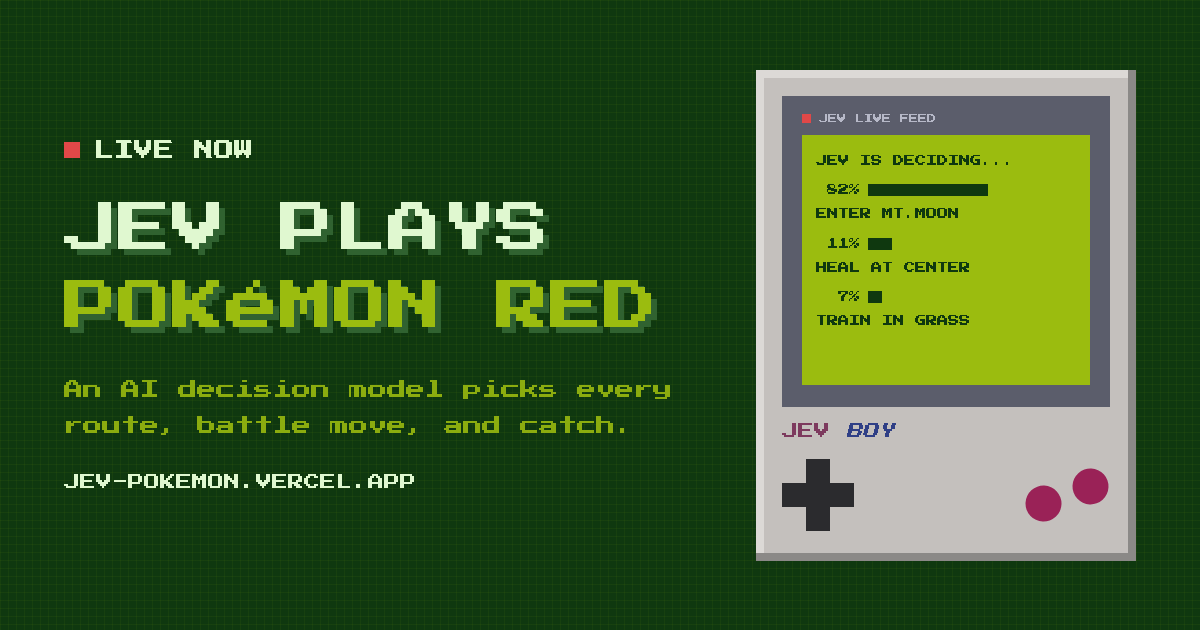
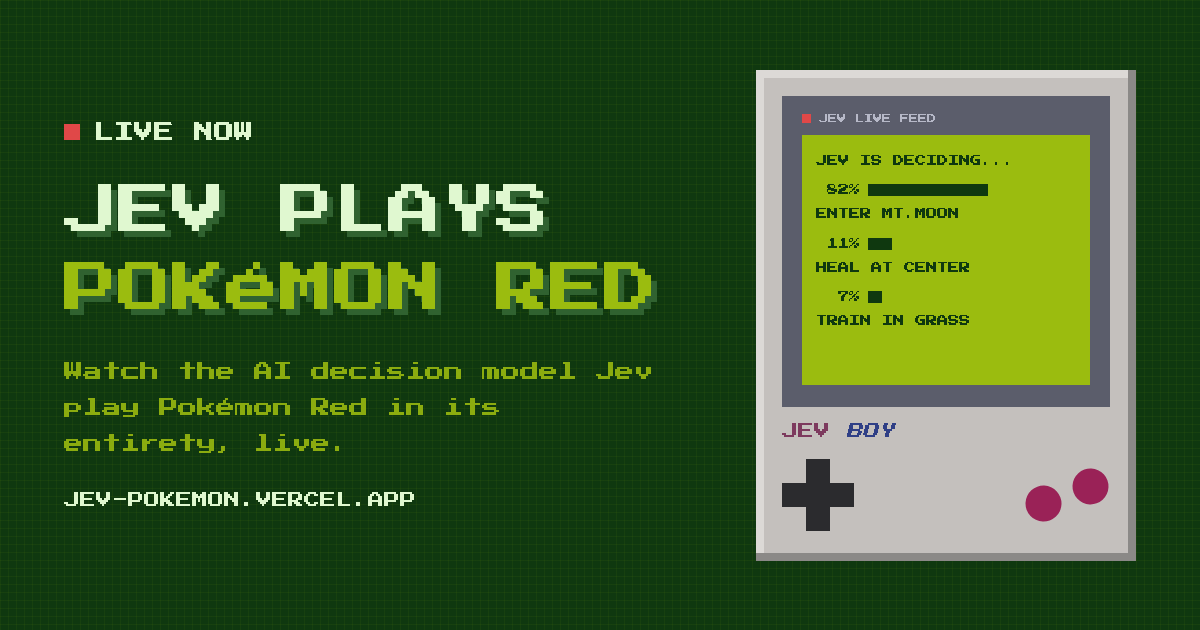
OG image + meta descriptions match the new subheader

Changed region(s): [[0.0308, 0.181, 0.555, 0.5429], [0.0308, 0.573, 0.555, 0.7238], [0.0617, 0.754, 0.3392, 0.8143]]

diff --git a/site/index.html b/site/index.html
@@ -4,19 +4,19 @@
 <meta charset="utf-8" />
 <meta name="viewport" content="width=device-width, initial-scale=1" />
 <title>Jev Plays Pokémon Red</title>
-<meta name="description" content="Watch TypeSafe's Jev decision model play Pokémon Red live. No scripts, no cheats: every route, battle move, and catch is a Jev decision." />
+<meta name="description" content="Watch the AI decision model Jev play Pokémon Red in its entirety, live." />
 <meta property="og:title" content="Jev plays Pokémon Red, live" />
-<meta property="og:description" content="An AI decision model is playing through all of Pokémon Red on a live stream. Every move is its own call." />
+<meta property="og:description" content="Watch the AI decision model Jev play Pokémon Red in its entirety, live." />
 <meta property="og:type" content="website" />
 <meta property="og:url" content="https://jev-pokemon.vercel.app/" />
-<meta property="og:image" content="https://jev-pokemon.vercel.app/og.png" />
+<meta property="og:image" content="https://jev-pokemon.vercel.app/og.png?v=2" />
 <meta property="og:image:width" content="1200" />
 <meta property="og:image:height" content="630" />
 <meta property="og:image:alt" content="Jev plays Pokémon Red: a pixel-art handheld showing Jev deciding between options with odds" />
 <meta name="twitter:card" content="summary_large_image" />
 <meta name="twitter:title" content="Jev plays Pokémon Red, live" />
-<meta name="twitter:description" content="An AI decision model is playing through all of Pokémon Red on a live stream. Every move is its own call." />
-<meta name="twitter:image" content="https://jev-pokemon.vercel.app/og.png" />
+<meta name="twitter:description" content="Watch the AI decision model Jev play Pokémon Red in its entirety, live." />
+<meta name="twitter:image" content="https://jev-pokemon.vercel.app/og.png?v=2" />
 <meta name="theme-color" content="#0f380f" />
 <link rel="icon" href="favicon.svg" type="image/svg+xml" />
 <link rel="preconnect" href="https://fonts.googleapis.com" />

diff --git a/scripts/og/og.html b/scripts/og/og.html
@@ -37,7 +37,7 @@
   <div class="left">
     <div class="live"><i></i>LIVE NOW</div>
     <h1>JEV PLAYS<br /><span>POKéMON RED</span></h1>
-    <p>An AI decision model picks every<br />route, battle move, and catch.</p>
+    <p>Watch the AI decision model Jev<br />play Pokémon Red in its<br />entirety, live.</p>
     <div class="url">JEV-POKEMON.VERCEL.APP</div>
   </div>
   <div class="gb">
